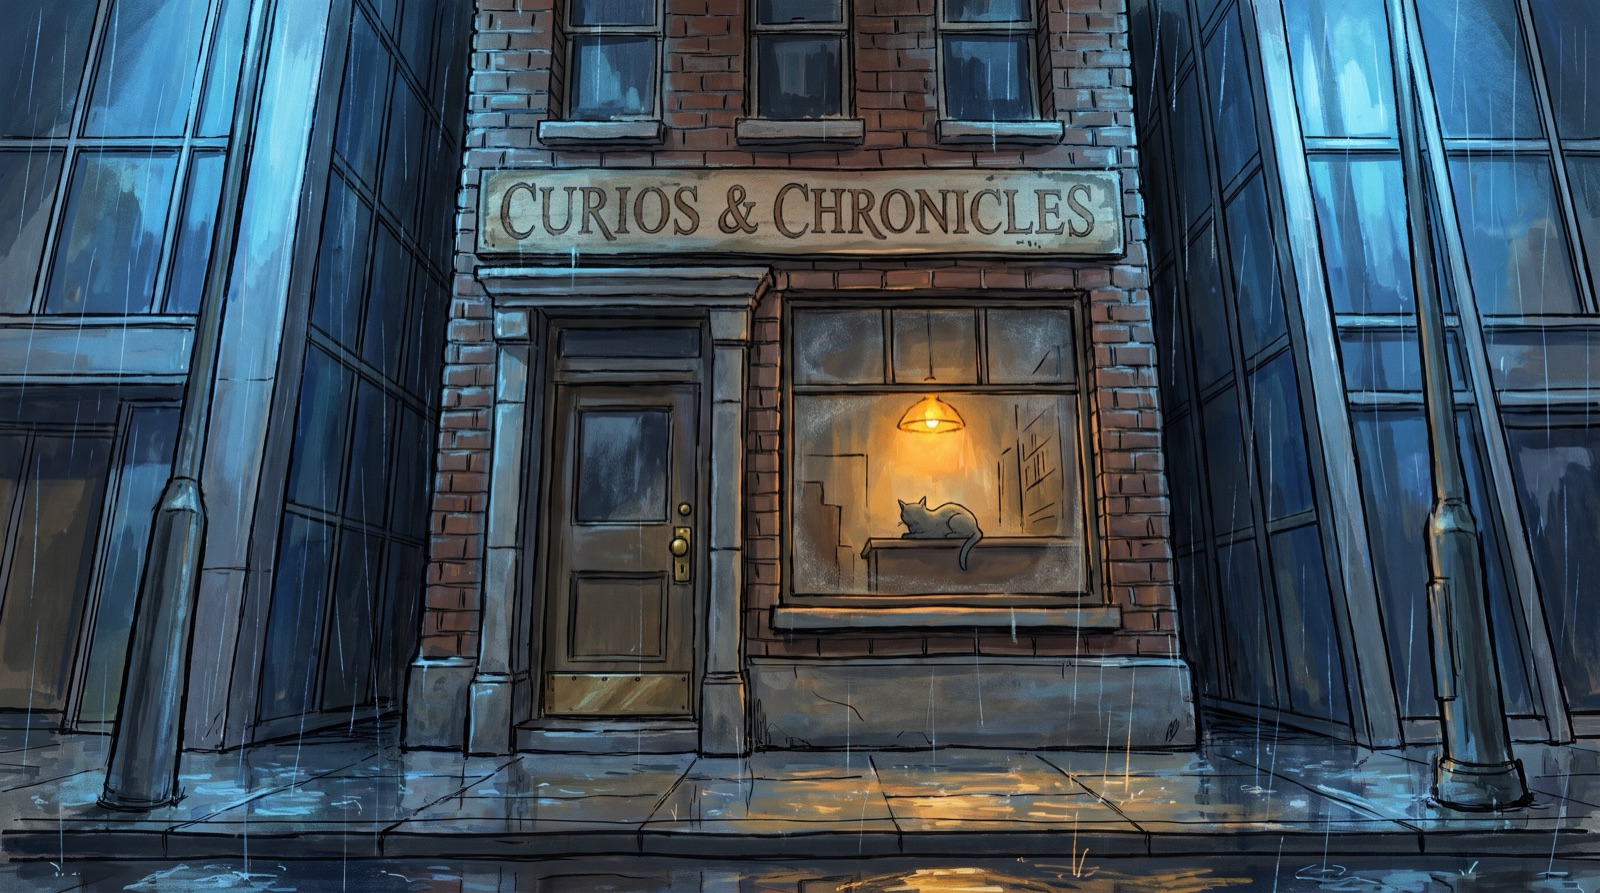
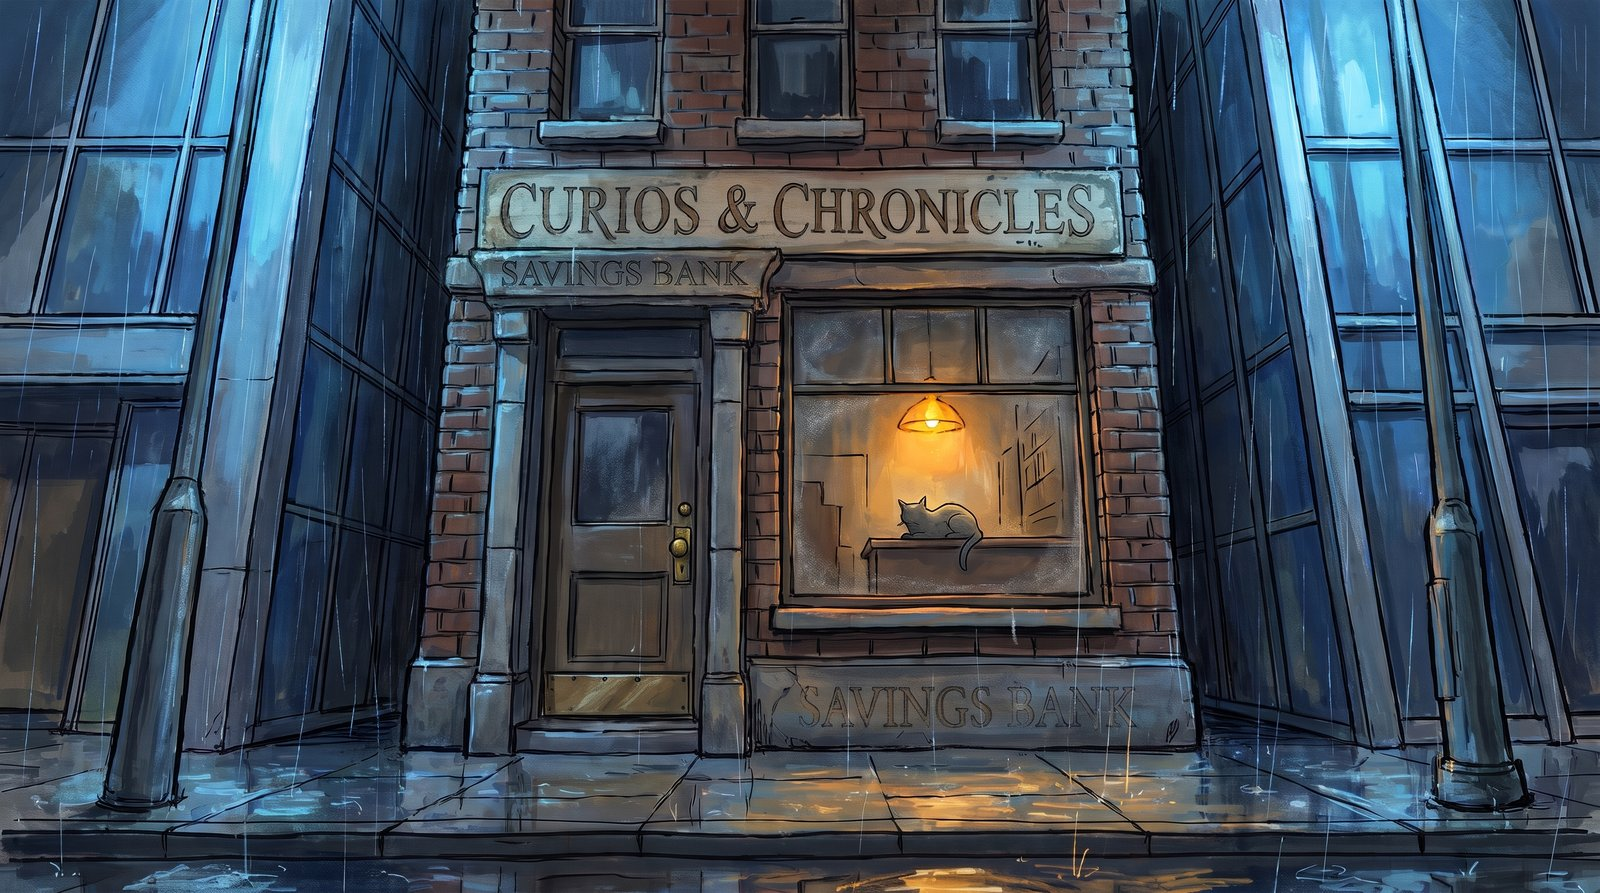
Update shop picture; add styling for Soundtrack and Anchor cards

diff --git a/docs/stylesheets/extra.css b/docs/stylesheets/extra.css
@@ -175,3 +175,15 @@
 .md-typeset .md-code__button, .md-typeset .md-clipboard { color: var(--se-amber); opacity: .9; }
 .md-typeset .md-code__button:hover, .md-typeset .md-code__button.focus-visible,
 .md-typeset .md-clipboard:hover, .md-typeset .md-clipboard:focus { color: var(--se-blue); opacity: 1; }
+
+/* Soundtrack page: cover thumbnail beside the title and player; stacks on phones */
+.md-typeset .track { display: flex; align-items: center; gap: 1rem; margin: 1rem 0; }
+.md-typeset .track img { width: 96px; height: 96px; border-radius: 6px; flex: none; }
+.md-typeset .track audio { width: min(100%, 22rem); margin-top: .35rem; }
+.md-typeset .track > div { min-width: 0; flex: 1; }
+
+/* Anchor Ledger: cards of each Anchor the crew has handled */
+.md-typeset .anchor-cards { display: grid; grid-template-columns: repeat(auto-fill, minmax(150px, 1fr)); gap: 1rem; }
+.md-typeset .anchor-cards figure { margin: 0; }
+.md-typeset .anchor-cards img { width: 100%; border-radius: 6px; }
+.md-typeset .anchor-cards figcaption { font-size: .75rem; }
